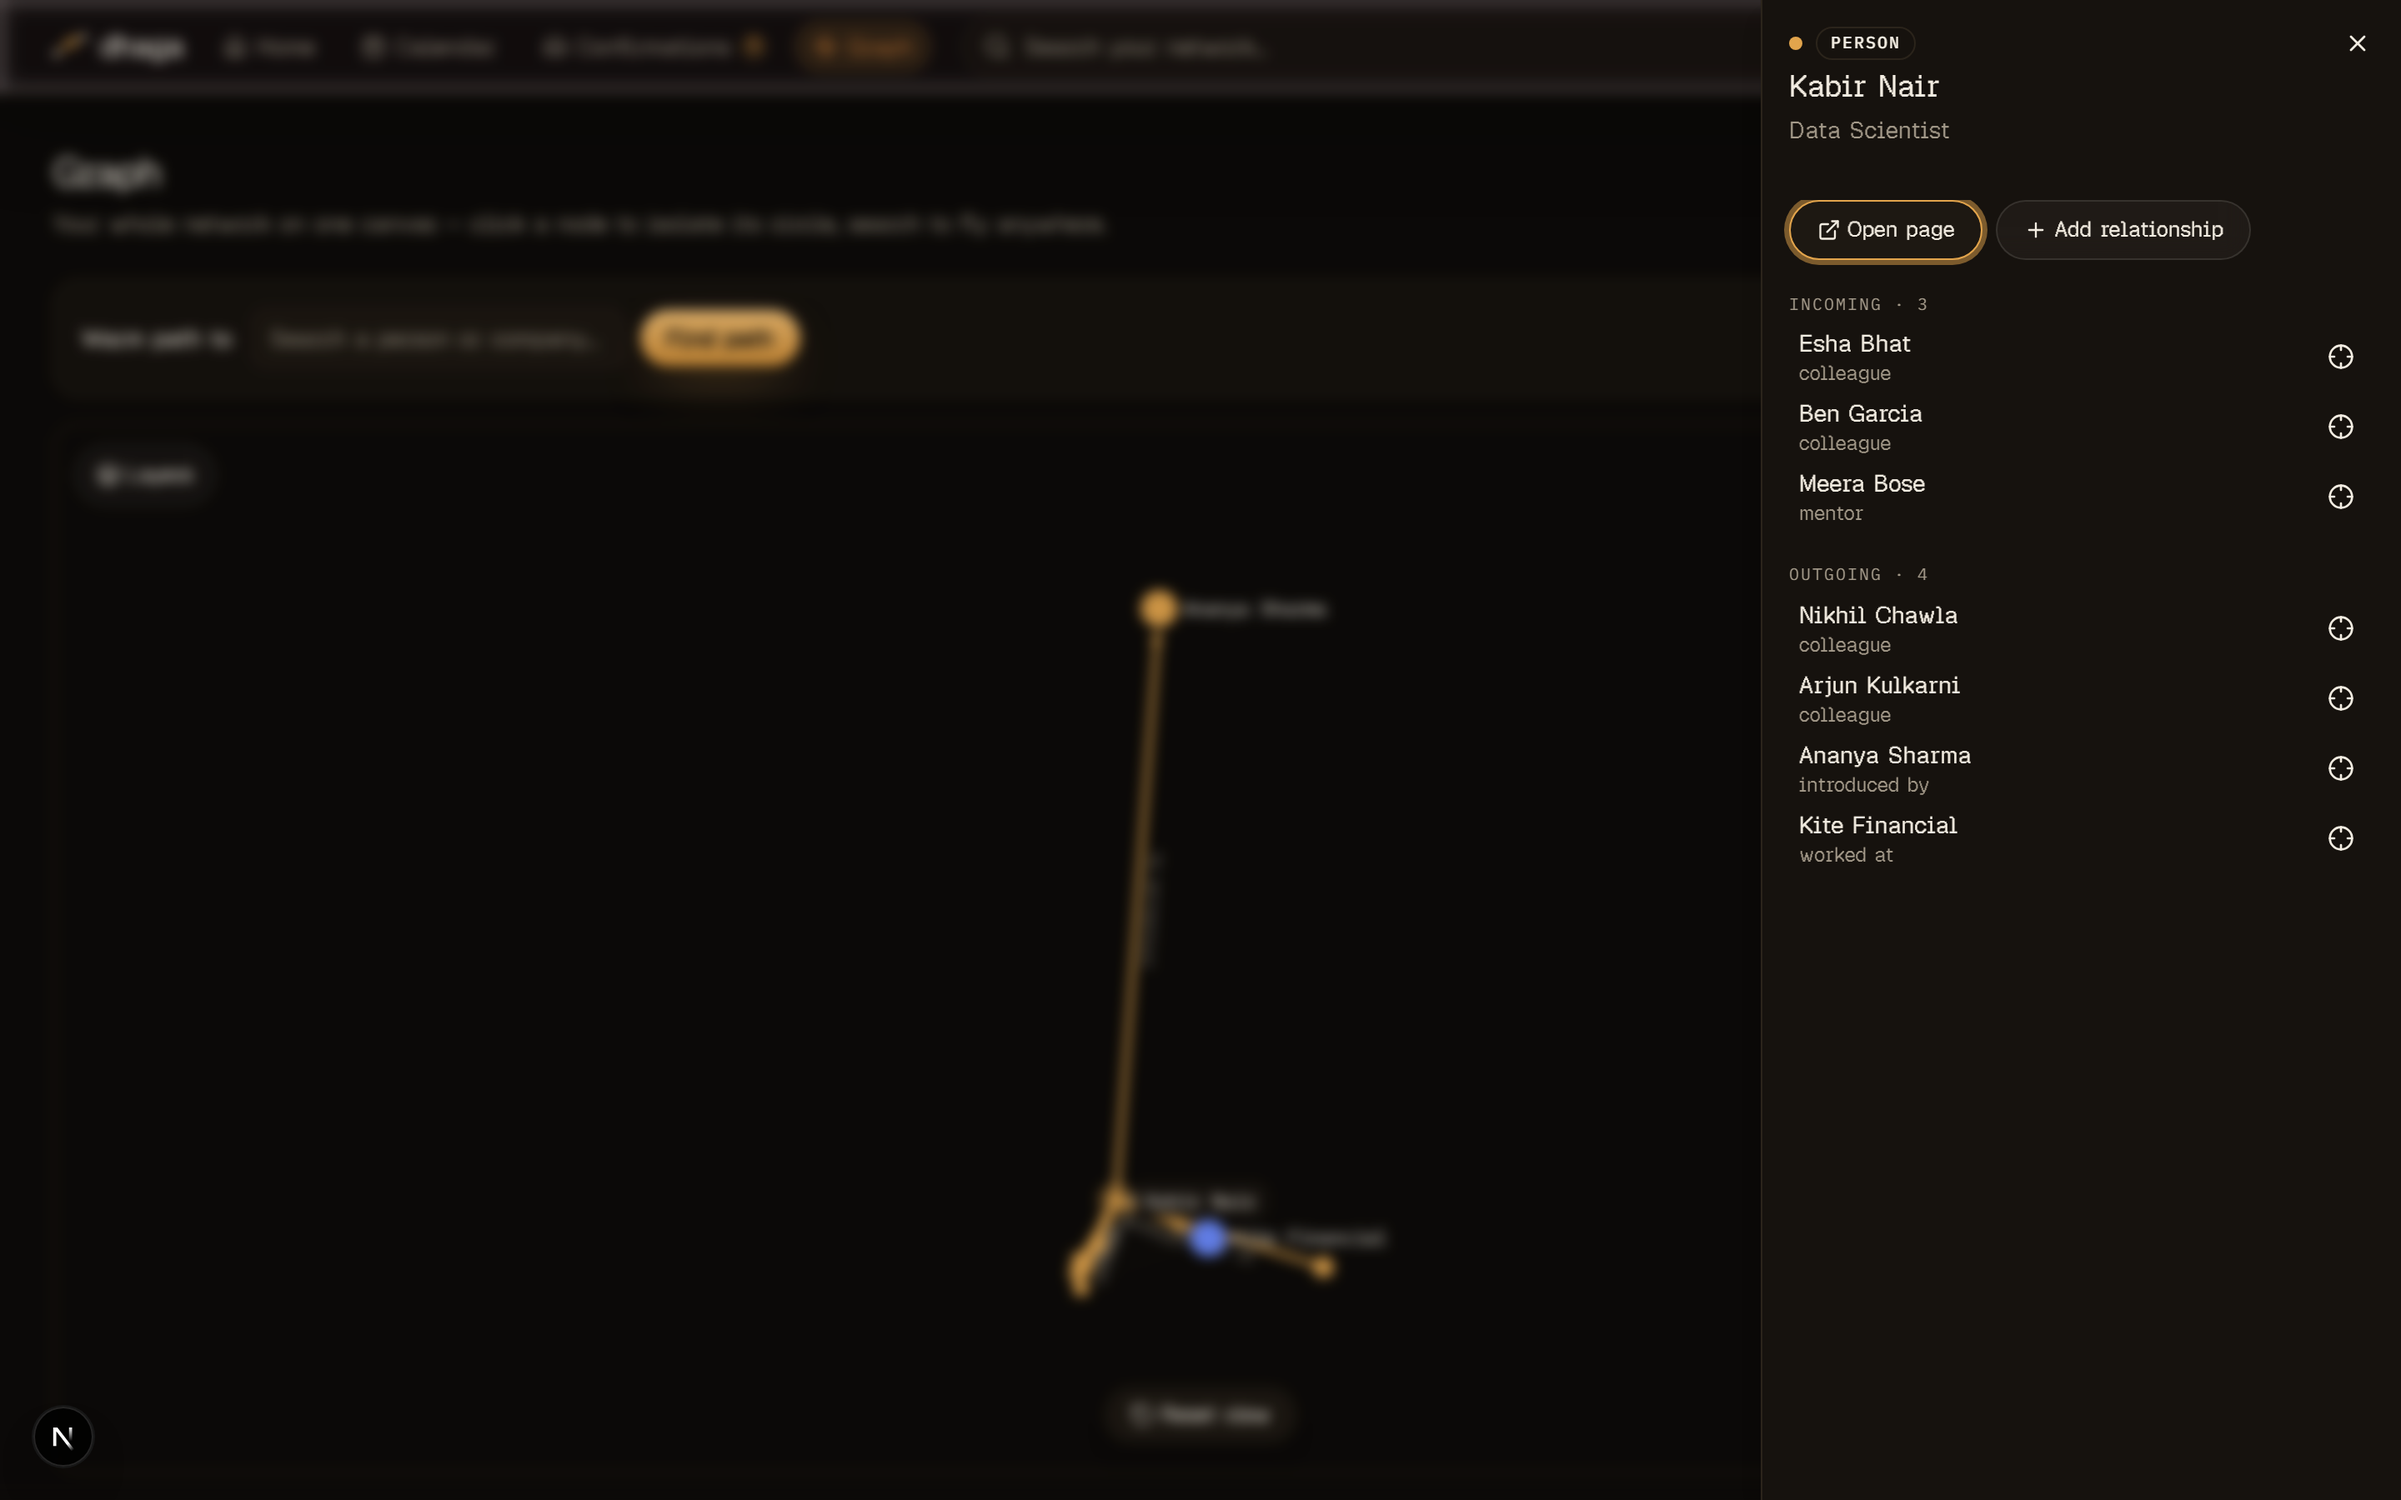
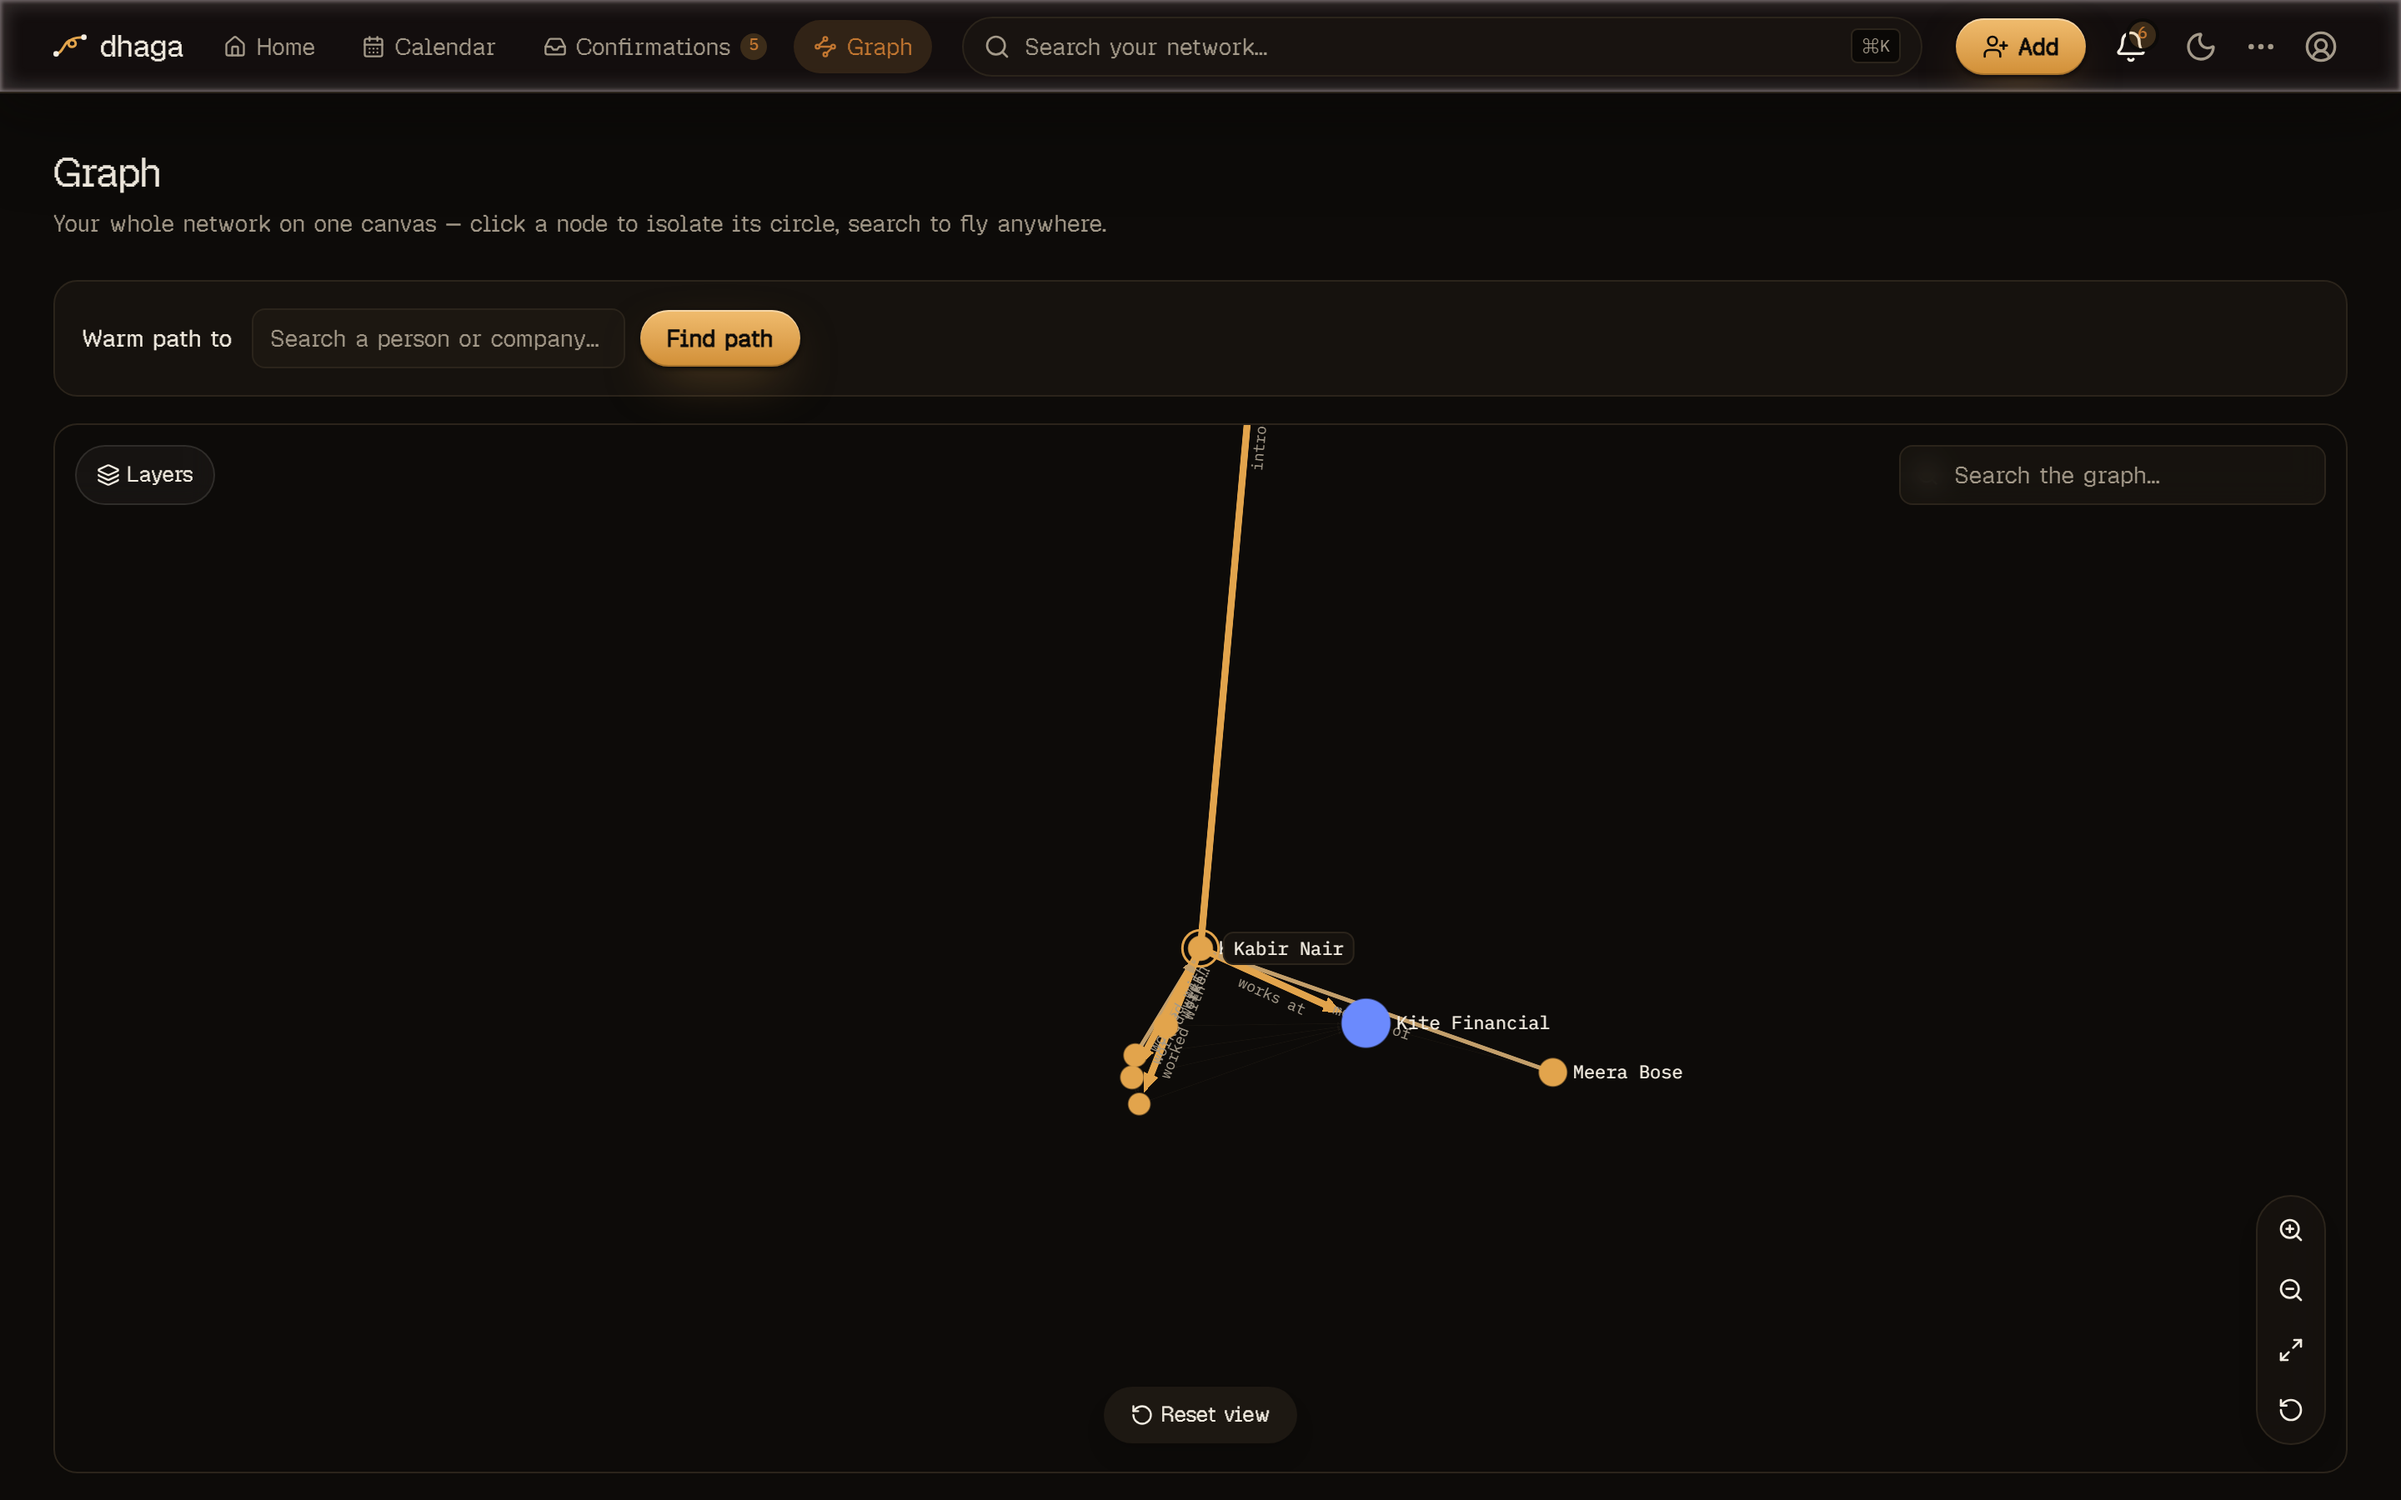
docs(web): reliable directional-graph screenshot via a gated e2e renderer hook
The graph-edge-direction shot needs to hover an exact node on a WebGL canvas,
which pixel-guessing could never land reliably. Add a screenshot-only hook: when
the URL carries ?e2e=1, GraphCanvas exposes the sigma renderer on
window.__dhagaGraph (no-op otherwise). The capture step now uses it to centre +
zoom the camera on the focus node (framed coords via getNodeDisplayData) and hover
its exact viewport pixel (graphToViewport of the raw coords), so the reducer
emphasises the node's outgoing edges — thick amber arrows with arrowheads — over
the thinner incoming ones. Regenerated public/docs/guide/graph-edge-direction.png.

Also add scripts/serve-supabase.mjs: a reusable launcher that serves the built app
on :3010 against .env.vercel via `next start` (a single stable process) — NOT
`next dev`, whose Turbopack worker pool fork-bombs on low-memory machines. Run
`npm run build` then `node scripts/serve-supabase.mjs`, then the capture script.

diff --git a/apps/web/src/components/app/graph/canvas/GraphCanvas.tsx b/apps/web/src/components/app/graph/canvas/GraphCanvas.tsx
@@ -81,6 +81,19 @@ export function GraphCanvas({
   useFocusDeepLink(renderer, focusId, tags.indexes, selectNode);
   usePathRequest(renderer, pathRequest, tags.indexes, setHighlightedPath);
 
+  // Screenshot/E2E hook: expose the sigma renderer on window ONLY when the URL
+  // carries ?e2e=1, so doc-screenshot automation can compute a node's exact
+  // on-canvas position (renderer.graphToViewport) and drive the camera
+  // deterministically. No-op in normal use.
+  useEffect(() => {
+    if (!renderer || typeof window === "undefined") return;
+    if (!new URLSearchParams(window.location.search).has("e2e")) return;
+    (window as unknown as { __dhagaGraph?: unknown }).__dhagaGraph = renderer;
+    return () => {
+      delete (window as unknown as { __dhagaGraph?: unknown }).__dhagaGraph;
+    };
+  }, [renderer]);
+
   const selectedNode = view.selectedId ? (tags.indexes.nodeById.get(view.selectedId) ?? null) : null;
   const showReset = view.isolateRootId !== null || view.highlightedPath !== null;
 
